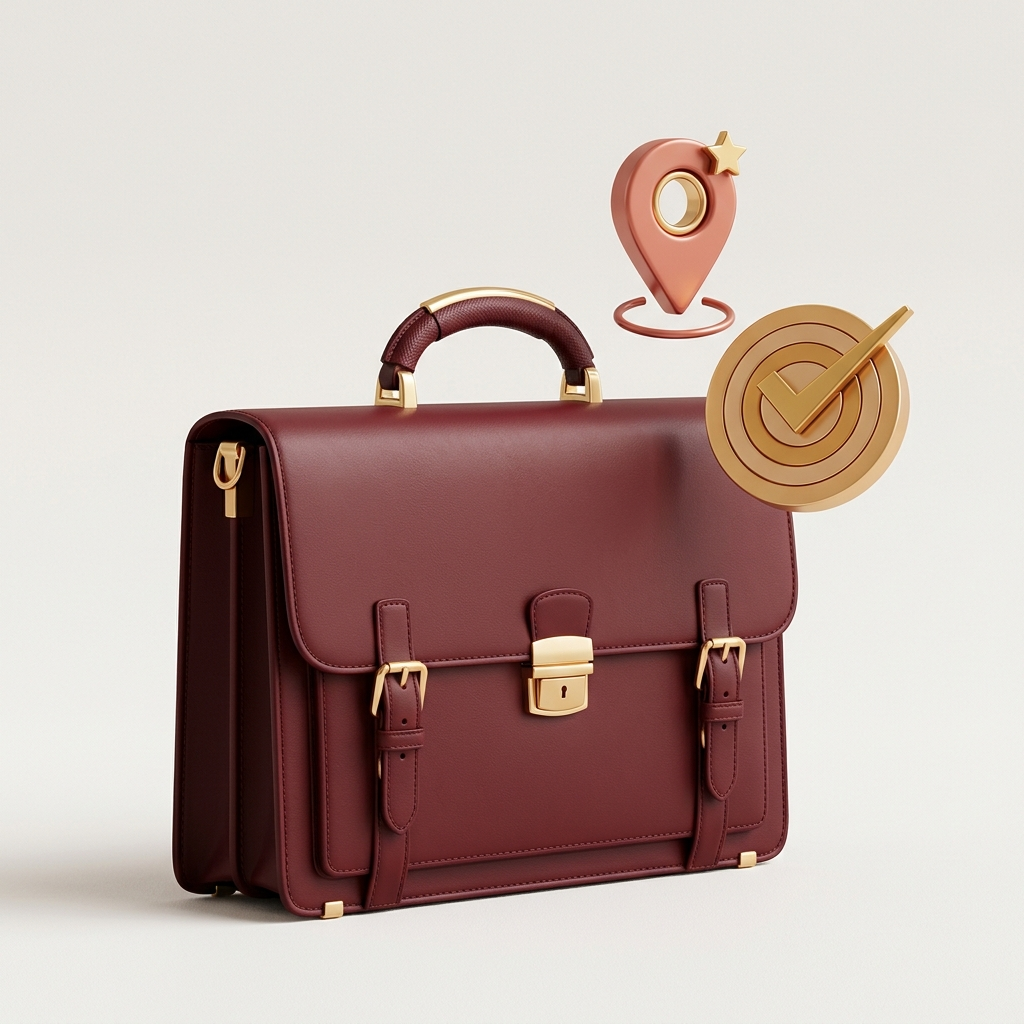
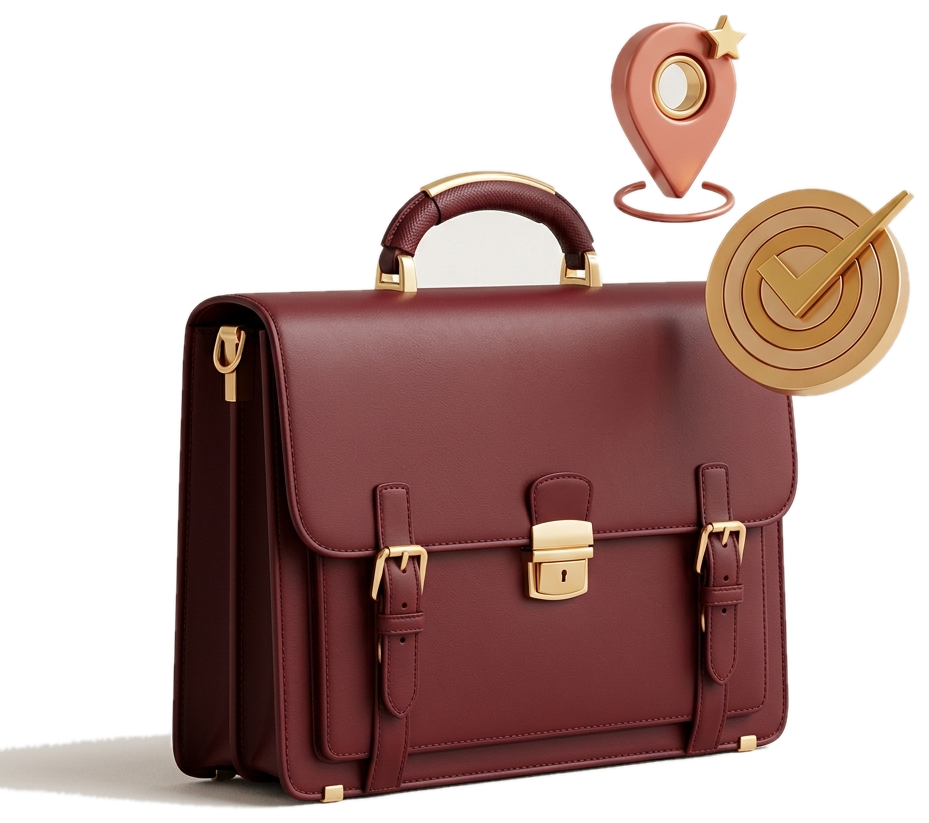
feat(dashboard): remove all-tools section, move tools carousel directly below greeting, and use transparent cutout images with increased dimensions

diff --git a/aeterna-careeredge/src/app/dashboard/dashboard-client.tsx b/aeterna-careeredge/src/app/dashboard/dashboard-client.tsx
@@ -28,7 +28,6 @@ import {
 } from "@/components/dashboard/getting-started-stepper";
 import { StatsStrip } from "@/components/dashboard/stats-strip";
 import { ToolsCarousel } from "@/components/dashboard/tools-carousel";
-import { AllToolsGrid } from "@/components/dashboard/all-tools-grid";
 import { YourFilesSection } from "@/components/dashboard/your-files-section";
 import {
   GraduationCap,
@@ -278,17 +277,22 @@ export function DashboardClient({ user }: DashboardClientProps) {
         </section>
 
         {/* ============================================================
-            SECTION 2: DO THIS NEXT (Most Prominent Full-Width Maroon Card)
+            SECTION 2: TOOLS FOR YOUR CAREER (Moved directly below Greeting)
+        ============================================================ */}
+        <ToolsCarousel />
+
+        {/* ============================================================
+            SECTION 3: DO THIS NEXT (Most Prominent Full-Width Maroon Hero Card)
         ============================================================ */}
         <NextStepCard action={nextAction} />
 
         {/* ============================================================
-            SECTION 3: GETTING STARTED STEPPER (6-step Progress)
+            SECTION 4: GETTING STARTED STEPPER (6-step Progress with Chevrons)
         ============================================================ */}
         <GettingStartedStepper milestones={milestones} />
 
         {/* ============================================================
-            SECTION 4: CAREER STATISTICS STRIP (4 Key Metrics)
+            SECTION 5: CAREER STATISTICS STRIP (4 Key Metrics)
         ============================================================ */}
         <StatsStrip
           profileReady={score}
@@ -298,31 +302,16 @@ export function DashboardClient({ user }: DashboardClientProps) {
         />
 
         {/* ============================================================
-            SECTION 5: TOOLS TOUR CAROUSEL (Explore Our Tools)
+            SECTION 6: YOUR FILES (Recent Resumes & Document Upload Box)
         ============================================================ */}
-        <ToolsCarousel />
+        <YourFilesSection
+          resumes={user.resumes}
+          storedDocuments={user.storedDocuments}
+          onOpenUploadModal={() => setIsUploadModalOpen(true)}
+        />
 
         {/* ============================================================
-            SECTION 6 & 7: ALL TOOLS GRID (2/3) + YOUR FILES (1/3)
-        ============================================================ */}
-        <div className="grid grid-cols-1 lg:grid-cols-12 gap-6 items-start w-full">
-          {/* Section 6: All Tools Grid (Left 7-8 cols on desktop, full width on mobile) */}
-          <div className="lg:col-span-7 xl:col-span-8">
-            <AllToolsGrid onOpenUploadModal={() => setIsUploadModalOpen(true)} />
-          </div>
-
-          {/* Section 7: Your Files (Right 4-5 cols on desktop, full width on mobile) */}
-          <div className="lg:col-span-5 xl:col-span-4">
-            <YourFilesSection
-              resumes={user.resumes}
-              storedDocuments={user.storedDocuments}
-              onOpenUploadModal={() => setIsUploadModalOpen(true)}
-            />
-          </div>
-        </div>
-
-        {/* ============================================================
-            SECTION 8: COMING-SOON MESSAGE
+            SECTION 7: COMING-SOON MESSAGE
         ============================================================ */}
         <div className="flex items-center justify-center gap-2 pt-2 pb-4 text-center text-xs text-[#907D79]">
           <Lightbulb size={14} className="text-[#F2B33D] shrink-0" aria-hidden="true" />

diff --git a/aeterna-careeredge/src/components/dashboard/tools-carousel.tsx b/aeterna-careeredge/src/components/dashboard/tools-carousel.tsx
@@ -214,7 +214,7 @@ export function ToolsCarousel() {
                 aria-label={`${idx + 1} of ${totalSlides}: ${slide.title}`}
                 className="min-w-full sm:min-w-[calc(50%-6px)] lg:min-w-[calc(33.333%-8px)] snap-start shrink-0"
               >
-                <div className="group relative flex h-full items-center justify-between rounded-2xl border border-[#F0DFDC] bg-white p-4 sm:p-5 shadow-xs transition-all duration-200 hover:border-[#7A1A2B]/40 hover:shadow-card min-h-[148px]">
+                <div className="group relative flex h-full items-center justify-between rounded-2xl border border-[#F0DFDC] bg-white p-4 sm:p-5 shadow-xs transition-all duration-200 hover:border-[#7A1A2B]/40 hover:shadow-card min-h-[156px] sm:min-h-[164px]">
                   {/* Left: Text & Action Button */}
                   <div className="flex flex-col justify-between h-full space-y-3 min-w-0 pr-2">
                     <div className="space-y-1.5">
@@ -238,7 +238,7 @@ export function ToolsCarousel() {
                     <div>
                       <Link
                         href={slide.href}
-                        className="inline-flex items-center gap-1.5 rounded-full bg-[#7A1A2B] px-3.5 py-1.5 text-xs font-bold text-white shadow-xs hover:bg-[#650B19] active:bg-[#4C0915] transition-colors focus-visible:outline-none focus-visible:ring-2 focus-visible:ring-[#7A1A2B]"
+                        className="inline-flex items-center gap-1.5 rounded-full bg-[#7A1A2B] px-4 py-1.5 text-xs font-bold text-white shadow-xs hover:bg-[#650B19] active:bg-[#4C0915] transition-colors focus-visible:outline-none focus-visible:ring-2 focus-visible:ring-[#7A1A2B]"
                       >
                         <span>{slide.actionText}</span>
                         <ArrowRight size={12} aria-hidden="true" />
@@ -246,13 +246,13 @@ export function ToolsCarousel() {
                     </div>
                   </div>
 
-                  {/* Right: AI-Generated 3D Visual Asset */}
-                  <div className="shrink-0 relative w-20 h-20 sm:w-22 sm:h-22 flex items-center justify-center pl-1">
+                  {/* Right: Transparent Cutout 3D Visual Asset (Increased Size) */}
+                  <div className="shrink-0 relative w-24 h-24 sm:w-28 sm:h-28 flex items-center justify-center pl-1">
                     <Image
                       src={slide.imageSrc}
                       alt=""
-                      width={88}
-                      height={88}
+                      width={112}
+                      height={112}
                       className="w-full h-full object-contain drop-shadow-xs group-hover:scale-105 transition-transform duration-200"
                     />
                   </div>
